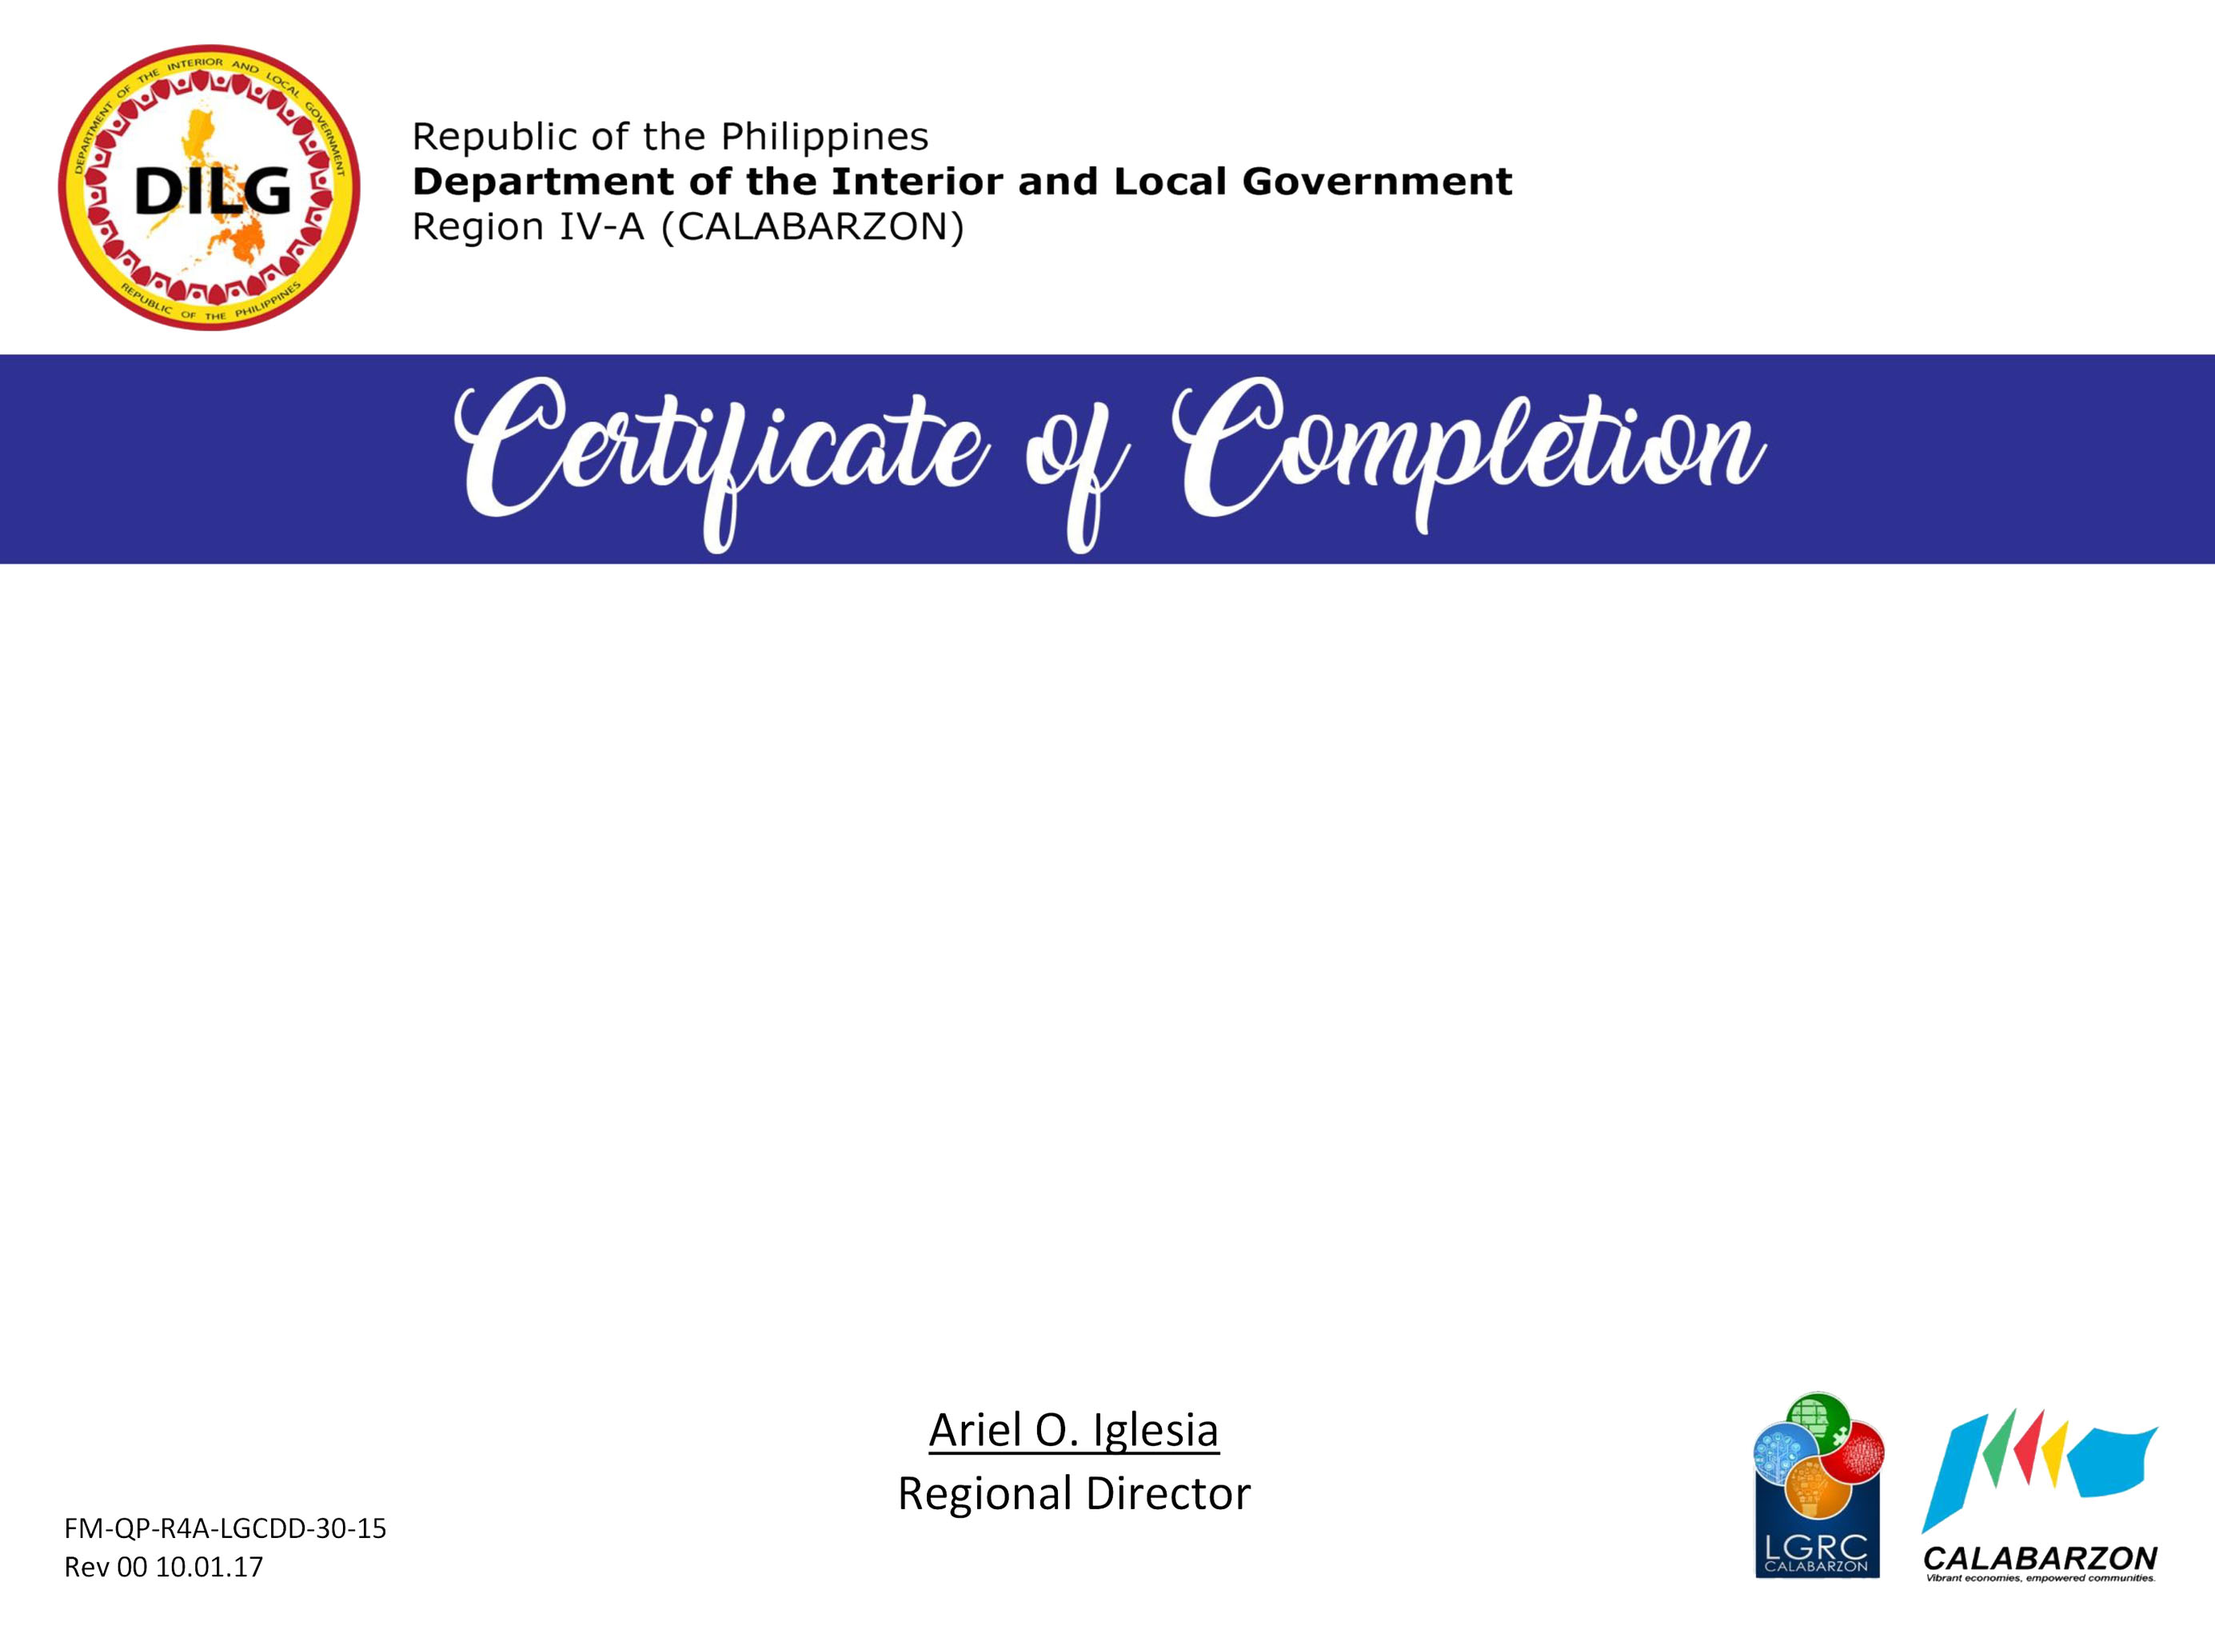
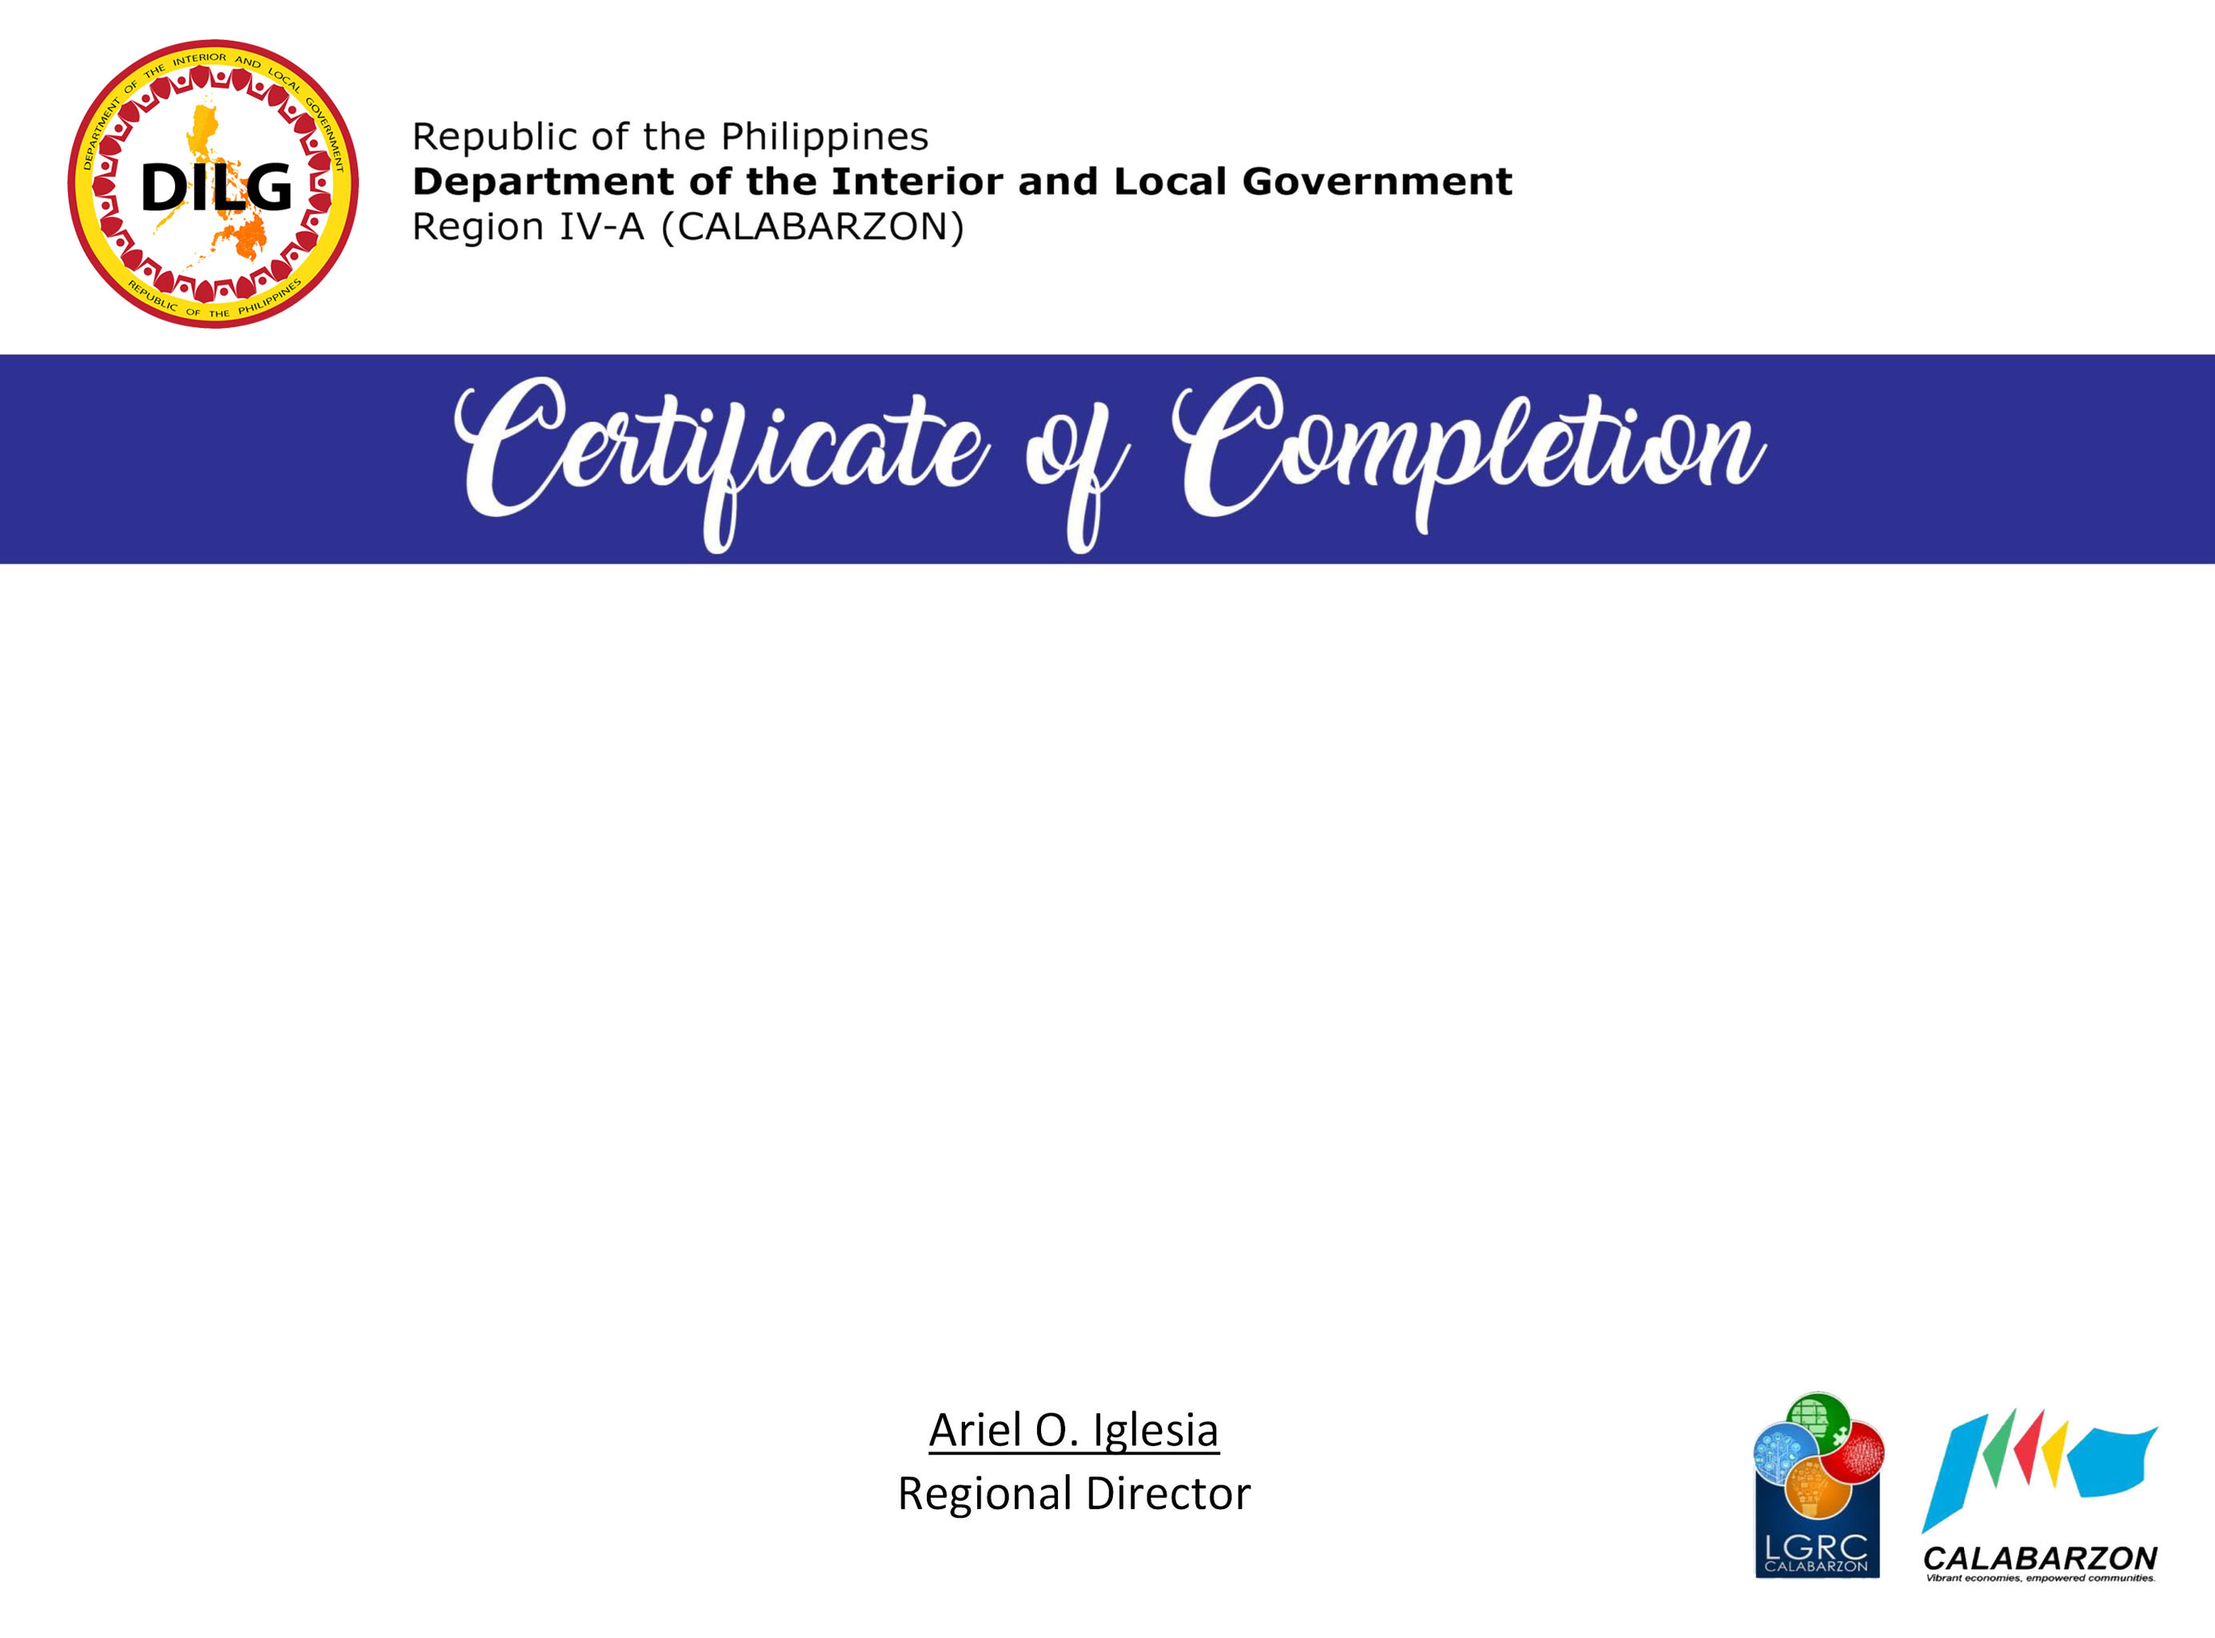
remove qms control nos dun in generated certificate

Changed region(s): [[0.0, 0.0, 0.1552, 0.2188], [0.031, 0.9062, 0.1552, 0.9688]]

diff --git a/TemplateGenerator/entity/template.php b/TemplateGenerator/entity/template.php
@@ -123,7 +123,8 @@ if ($signature_type == 'manual') {
                 $this->SetAutoPageBreak(false, 0);
                 // set bacground image
                 // $img_file = K_PATH_IMAGES.'image_demo.jpg';
-                $img_file = '../../images/template/COA.jpg';
+                // $img_file = '../../images/template/COA.jpg';
+                $img_file = '../../images/template/base_template_no_esig.jpg';
 
                 // $this->Image(file, LEFT, RIGHT, WIDTH, HEIGHT, '', '', '', false, 300, '', false, false, 0);
                 $this->Image($img_file, 5, 5, 280, 198, '', '', '', false, 300, '', false, false, 0);
@@ -191,7 +192,8 @@ if ($signature_type == 'manual') {
                 $this->SetAutoPageBreak(false, 0);
                 // set bacground image
                 // $img_file = K_PATH_IMAGES.'image_demo.jpg';
-                $img_file = '../../images/template/COA_with_esig.jpg';
+                // $img_file = '../../images/template/COA_with_esig.jpg';
+                 $img_file = '../../images/template/base_template.jpg';
 
                 // $this->Image(file, LEFT, RIGHT, WIDTH, HEIGHT, '', '', '', false, 300, '', false, false, 0);
                 $this->Image($img_file, 5, 5, 280, 198, '', '', '', false, 300, '', false, false, 0);

diff --git a/TemplateGenerator/entity/generate.php b/TemplateGenerator/entity/generate.php
@@ -92,7 +92,8 @@ $result = mysqli_fetch_assoc($query);
                 $this->SetAutoPageBreak(false, 0);
                 // set bacground image
                 // $img_file = K_PATH_IMAGES.'image_demo.jpg';
-                $img_file = '../../images/template/COA_with_esig.jpg';
+                // $img_file = '../../images/template/COA_with_esig.jpg';
+                $img_file = '../../images/template/base_template.jpg';
 
                 // $this->Image(file, LEFT, RIGHT, WIDTH, HEIGHT, '', '', '', false, 300, '', false, false, 0);
                 $this->Image($img_file, 5, 5, 280, 198, '', '', '', false, 300, '', false, false, 0);
